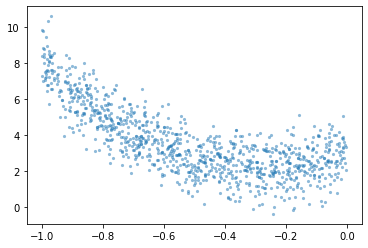
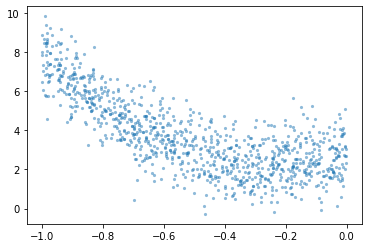
deploy: 4ab12542be3244c10e368a6d78453bffe076160b

diff --git a/searchindex.js b/searchindex.js
@@ -1,1 +1,1 @@
-Search.setIndex({docnames:["index","notebooks/01_linear_systems","notebooks/02_LU_decomposition","notebooks/03_polynomial_interpolation","notebooks/04_spline_interpolation","notebooks/05_finite_difference_method","notebooks/06_least_squares_regression","notebooks/07_pca","notebooks/08_deblurring_images","notebooks/09_computed_tomography","notebooks/10_computing_eigenvalues","notebooks/11_pagerank","notebooks/12_fft","notebooks/13_convolution","notebooks/IntroFirstLecture","notebooks/IntroductionToPythonPart1","notebooks/IntroductionToPythonPart2","notebooks/Untitled"],envversion:{"sphinx.domains.c":2,"sphinx.domains.changeset":1,"sphinx.domains.citation":1,"sphinx.domains.cpp":3,"sphinx.domains.index":1,"sphinx.domains.javascript":2,"sphinx.domains.math":2,"sphinx.domains.python":2,"sphinx.domains.rst":2,"sphinx.domains.std":1,"sphinx.ext.intersphinx":1,sphinx:56},filenames:["index.md","notebooks/01_linear_systems.ipynb","notebooks/02_LU_decomposition.ipynb","notebooks/03_polynomial_interpolation.ipynb","notebooks/04_spline_interpolation.ipynb","notebooks/05_finite_difference_method.ipynb","notebooks/06_least_squares_regression.ipynb","notebooks/07_pca.ipynb","notebooks/08_deblurring_images.ipynb","notebooks/09_computed_tomography.ipynb","notebooks/10_computing_eigenvalues.ipynb","notebooks/11_pagerank.ipynb","notebooks/12_fft.ipynb","notebooks/13_convolution.ipynb","notebooks/IntroFirstLecture.ipynb","notebooks/IntroductionToPythonPart1.ipynb","notebooks/IntroductionToPythonPart2.ipynb","notebooks/Untitled.ipynb"],objects:{},objnames:{},objtypes:{},terms:{"00000000e":10,"005":[3,4],"00905901":6,"00961239":6,"01785714":14,"02015061437077481":11,"02015078":11,"021080858708892317":11,"02108105":11,"02556357764491325":11,"02556366":11,"02761565":11,"027615823407476453":11,"0338245995526274":11,"03382476":11,"03416233":11,"03416243773609633":11,"03703704":14,"0375":11,"037500000000000006":11,"037757417817839686":11,"03775753":11,"04084467":11,"04084476582254939":11,"041989783168060076":11,"04199003":11,"04459712":11,"04459746509471776":11,"0504685":11,"05046859372406715":11,"05138671":11,"05138684431971574":11,"05276264293480124":11,"05276289":11,"05283406":11,"05283470425176745":11,"05640495":11,"056405091437725506":11,"06282969":6,"06710710820958404":11,"06710754":11,"06822613313847745":11,"06822674":11,"07106781e":10,"07493737":11,"07493773248177427":11,"08454061267050449":11,"08454105":11,"100":[3,5,10,11,12,14],"1000":[6,14],"1056":7,"10mm":[1,2,5],"1100":12,"11111111":14,"11374262":11,"11374319350763513":11,"115575244":3,"11764706e":10,"11820759":6,"120":9,"13793103e":10,"14213562e":10,"14285714":14,"150":10,"1525":16,"16071429":14,"16666667":1,"1797":7,"180":16,"18775788":6,"1a19a4a092db":15,"200":[3,4,7,8,9,14],"220446049250313e":1,"23313981e":10,"239":15,"23935093":6,"240":15,"241":15,"242":15,"243":15,"24650102e":10,"24712881730381647":11,"24720132":11,"24782":8,"256":[8,14],"29486809":6,"2q_k":5,"2x_1":[14,15],"32083333":11,"3236":16,"331042562946":8,"33333333":[1,2,11,14],"33333333e":10,"36886114e":10,"375":14,"38617379e":10,"392":10,"39797215e":10,"3x_2":[14,15],"40000000e":10,"41176471e":10,"41379310e":10,"41421356":10,"41421356e":10,"432x288":8,"43829925e":10,"44100":12,"45293347e":10,"4625":11,"46809736":11,"46824236539236713":11,"47532717":7,"49999998":10,"4x_3":[14,15],"500":[6,12],"50000002":10,"512":14,"52409613e":10,"530258040767459":4,"5x_2":[14,15],"61563238594044":10,"6156324237696":10,"64217655":3,"66666667":[1,10],"6724":9,"68965517":10,"70710675":10,"70710678":10,"70710681":10,"72413793":10,"750":12,"76358907e":10,"77302319e":10,"7762752":9,"78720":9,"7x_3":[14,15],"809":16,"8284271247461903":15,"87980912":7,"88235294e":10,"8875":11,"8x_3":[14,15],"90926744e":10,"9840":9,"9f18eecd8a15":15,"default":12,"final":16,"function":[1,2,4,6,7,8,10,11,15],"import":[1,2,3,4,5,6,7,8,9,10,11,12,14,15,16],"new":15,"return":[2,15,16],"true":[2,3,4,5,7,11,12,14],"try":[3,15],And:[9,16],Axes:8,But:[3,14,15],For:[5,15,16],That:[2,3,7,14,15],The:[0,1,2,3,4,5,6,7,9,10,14,15,16],Then:[10,14],There:[6,7,15,16],These:9,Use:[6,8],With:2,a_0:10,a_2:5,a_c:[8,14],a_k:[5,9,10],a_k_plu:9,a_n:5,a_r:[8,14],about:[1,14,15,16],abov:16,abs:[10,12],absolut:[2,10],ac_k_plu:[8,14],access:0,account:0,accur:15,actual:[9,15],acut:16,added:[0,4],addit:[0,14,15],adjac:11,adjacency_matrix:11,after:9,again:[6,15],algebra:[1,16],algorithm:[7,10],align:[2,3],all:[0,4,10,14,15],almost:6,alpha:[5,6,7,11,14],alreadi:15,also:10,alwai:2,amp:1,analys:15,angl:[7,9,12],ani:2,anoth:15,answer:15,append:3,approx:5,approxim:[1,5,10,15],ar_k_plu:[8,14],arang:[8,12,14],arbitrari:6,around:[3,15],arrai:[1,2,3,4,5,6,7,10,11,14,15],assign:0,assum:[0,14],astyp:[8,14],attent:16,aug:15,averag:7,avoid:[8,9],axi:[5,7,11],b_1:5,b_2:5,b_e:9,b_k:5,b_n:5,base:6,basi:7,bc_type:4,becaus:3,been:7,befor:[0,6],begin:[1,2,3,5,6,14,15,16],belong:15,best:[6,15],beta:5,between:14,binari:[7,8],bit:16,block:[8,10],blur:14,bmatrix:[1,2,3,5,6,14,15,16],boldsymbol:[1,3],bone:9,bore:15,both:8,boundari:5,browser:[0,12],bug:15,build:6,c_0:[3,6],c_1:[3,5,6],c_1t:6,c_1t_1:3,c_1t_2:3,c_1t_d:3,c_1x:6,c_2:[3,5,6],c_2t:6,c_2x:6,c_d:[3,6],c_dt:6,c_k:[3,5],calcul:[6,15,16],call:[2,3,6,15,16],can:[0,6,9,10,14,16],canva:0,capabl:15,captur:7,cccccccc:[1,2],cd_d:6,cdot:[1,2,3,5,6],cell:16,chang:[3,4],check:[0,2,8],choic:6,choleski:2,choos:[5,10],circuilt:1,clear:15,click:0,clim:7,cmap:[2,7,8,9,11,14],coefficeint:6,coeffici:[3,4,6],col:[15,16],col_del:15,col_insert:15,collect:9,colorbar:[2,7,8],column:[2,6,7,8,15,16],column_stack:[6,7,14],columnspac:15,combin:8,come:15,command:15,common:[6,15],compar:[2,4,5,9,10,11,16],comput:[0,1,2,4,6,7,8,14,15,16],comut:2,concaten:5,cond:[3,4,8],condit:[3,5,8],confus:16,consid:[3,4,5],consist:1,constant:1,constraint:14,construct:[4,6,14],contain:9,continu:4,converg:10,copi:12,correct:[6,15],correspond:[3,9,10],cos:[5,7,12],cours:[0,15],creat:[1,3,8,11,16],cs1:4,cs2:4,cs3:4,csc:9,csc_matrix:9,cube:16,cubic:3,cubicsplin:4,current:1,cwl:0,data:[3,4,8,9,16],datapoint:14,dataset:9,dc_k_plu:[8,14],ddot:[1,2,3,5],decomposit:[7,10],decreas:8,defin:[4,5,10,15],definit:[2,11],degre:[3,6],demonstr:6,denot:5,deploi:0,describ:14,det:15,detail:0,devic:14,dft:12,diag:[1,2,5,8,9,14,15],diagon:[8,10],did:15,differ:[6,9,16],differenti:5,digraph:11,dimens:16,dimension:16,direct:[8,11],discret:5,discuss:16,displai:12,displaystyl:15,distribut:6,document:2,doe:[12,14,15],domain:5,domin:10,don:15,done:0,dot:[1,3,4,6,7],down:[14,15],dr_k_plu:[8,14],draw:11,due:[1,15],each:[3,4,5,7,9,10],earth:14,econom:6,edg:11,effici:7,eig:10,eigenvector:10,eignvalu:10,element:12,elementwis:16,elimin:2,ell_:2,email:14,end:[1,2,3,5,6,14,15,16],enough:15,entri:[2,16],epsilon:6,equal:[2,3,7],equat:[3,5,14,15,16],error:[1,6,9,14,15],eval:10,evec:10,even:16,everi:7,exact:[1,5],exactli:6,exampl:[9,15,16],exercis:[14,15],exist:3,express:6,eye:[1,2,15,16],f1931db3b9ae:15,factor:6,fals:[2,7],familiar:0,faulti:14,figsiz:[3,7,9,12],figur:[3,7,8,9,12],file:[0,9],find:[2,8,11,14,15,16],fine:14,finnish:9,fip:9,first:[0,2,6,7,15],flatten:7,float64:[8,14],follow:[0,9,14,15],form:[2,5,6,14,15],format:10,formula:5,found:0,frac:[5,7,10],from:[3,4,6,7,8,9,12,14,16],gaussian:[2,7],gave:15,gener:[5,6,14,15],get:[14,15,16],get_cmap:7,give:[3,14,15],given:[3,4,14],glimp:15,goal:6,good:10,googl:11,google_matrix:11,grai:[8,14],grid:[3,4,5,7,12,14],hand:2,handwritten:7,happen:3,has:[2,6,7,10,14,15,16],hat:[1,9],have:[0,6,9,10,14,15,16],help:[15,16],here:15,home:15,homework:14,horizont:8,how:[8,14,15,16],howev:[7,9,15,16],hspace:[1,2,5],hstack:[8,14],hub:0,huge:9,i_1:1,i_n:1,idea:6,ident:16,ifft:12,imag:7,implement:[7,10],imread:[8,14],imshow:[2,7,8,9,14],includ:7,increas:[3,10,14],inde:10,index:[1,9],indic:15,inform:[0,7,14],infti:10,input:15,insert:15,instal:0,instructor:0,interest:16,internet:15,interpol:7,interst:15,interv:[6,14],introduc:[3,5],introduct:0,inv:15,invers:[9,15],invert:[9,10],ipython:[12,15],irrat:15,iter:11,its:16,jet:7,jpg:[8,14],jupyt:0,just:6,keep:16,kitten:[8,14],know:[3,10,15],knowledg:0,l_1:2,l_2:2,lambda:10,lambda_1:10,lambda_n:10,languag:15,larg:[3,9],largest:9,last:16,later:15,learn:[1,7,15],least:[6,14],lectur:15,left:[1,2,5,6,8,14,15],len:3,length:[7,16],leq:2,less:2,let:[2,3,4,5,6,7,8,9,10,14,15,16],lib:15,librari:[15,16],like:14,linalg:[2,3,4,5,6,7,8,9,10,11,12,14,16],line:6,linear:[4,5,14,15,16],linearli:8,linewidth:[6,14],link:0,linspac:[3,4,5,6,14],list:16,llet:5,load_digit:7,loadmat:[8,9,14],locat:7,look:[6,9,14],loop:1,lot:[14,15],lower:2,lu_factor:10,lu_solv:10,machin:[7,15],magnitud:12,mai:16,mainli:15,make:15,mani:15,markers:[3,4,14],mat:9,math:15,mathbb:7,mathbf:[2,5,6,7,9,10,14],mathemat:[0,1],matlab:16,matplotlib:[1,2,3,4,5,6,7,8,9,10,11,12,14,15],matric:[6,9,15,16],matrix:[1,2,3,4,6,7,8,10,11,14,15],matrix_pow:16,max:10,mean:[6,7,10],measur:14,memori:9,method:[6,10,11,16],minim:[6,14],mode:6,model:1,modul:15,modulenotfounderror:15,more:15,most:[6,7,14,15],mpow:16,multipl:[8,10,15],multiplc:16,must:[15,16],n_link:11,n_page:11,nak:10,name:15,nameerror:15,nbyte:9,ndarrai:[1,9],ndim:16,need:[0,8,9,15,16],networkx:11,next:15,nice:3,niter:10,nmax:3,node_color:11,nois:[3,4,6,9,14],none:5,norm:[1,10],normal:[7,10],normliz:7,notat:[5,6],note:[0,11,15],notebook:[0,13],notic:16,now:[2,4,6,10,14,15,16],nullspac:15,number:[3,6,8,10,14,15,16],numer:[15,16],numpi:[1,2,3,4,5,6,7,8,9,10,11,12,14,15],nxk:10,object:16,off:15,onc:0,one:[15,16],ones:[1,2,5,6,8,11,14,15],onto:7,oper:15,order:[5,9,15],ordinari:5,origin:7,orthogon:7,orthonorm:7,other:[10,14,15],our:[1,4,11,15,16],out:15,output:16,p_1:[4,5],p_2:4,p_k:[4,5],p_n:[4,5],packag:[1,7,15],page:0,parabola:3,parallel:1,part:0,partial:2,particular:9,paus:10,pca:7,perform:[0,11,16],permut:2,phantom:2,phase:12,phi:12,piecewis:4,pivot:[2,15],pixel:7,plai:15,pleas:0,plot:[1,2,3,4,5,6,7,14],plt:[1,2,3,4,5,6,7,8,9,10,11,12,14],plu:2,point:[3,4,6,7],polyniomi:3,polynomi:4,pos:[11,15],posit:[1,2],post:0,power:11,precis:15,prepar:9,present:15,pretti:10,previou:14,print:[1,2,3,6,10,14,16],prior:0,problem:[9,15,16],produc:10,program:15,proj:9,project:[7,14],provid:9,pseudoinvers:[8,9,14],pyplot:[1,2,3,4,5,6,7,8,9,10,11,12,14],python3:15,python:7,q_1:6,q_1r_1:6,q_k:10,qtc:[8,14],qtr:[8,14],quad:[14,15],quantifi:6,question:15,quick:16,quiver:7,quotient:10,r_1:[5,6],r_2:5,r_k:[5,10],r_n:5,rai:9,rais:15,rand:[6,14],randint:[4,9,11],randn:[3,4,6,7,8,10,14],random:[3,4,6,7,8,9,12,14],rang:[3,7,9,10,11],rank:9,rate:12,rayleigh:10,rcparam:12,reach:14,real:[10,12],rearrang:5,recal:16,recent:[0,15],record:8,repeat:[5,10],repres:[1,6,8,9],requir:[0,16],resembl:14,reshap:[4,7,9,16],residu:1,result:[2,4,6,7,9,10,16],retriev:6,review:16,right:[0,1,2,5,6,7,8,14,15],rocket:0,round:1,row:[2,6,7,8,9,15,16],row_insert:15,rrcrr:5,rref:15,rrr:2,said:15,same:[6,8,10,15,16],sampl:[6,9],save:9,saw:16,scalar:15,scale:7,scale_unit:7,scatter:[6,7,14],scientist:14,scipi:[2,3,4,5,6,7,8,9,10,11,12,14,15,16],second:5,see:[6,10,14,15,16],seek:7,seen:15,select:[7,16],self:15,sensit:[3,4],set:[6,12,14],set_cmap:8,shape:[6,7,8,9,15,16],shapeerror:15,show:[1,2,3,4,5,6,7,8,9,12,14,15],side:[0,14],sigma:7,sign:0,similar:10,sin:[3,4,7],sinc:[10,15],singular:[7,9],site:15,size:[1,3,4,5,8,10,12,15,16],sklearn:7,sla:9,sleep:10,slice:16,small:[3,4,15],smallest:10,smooth:4,societi:9,softwar:0,solut:[1,2,3,5,6,14,15],solv:[2,3,4,5,6,8,9,14,15,16],solve_triangular:2,some:[1,3,6,8,14,15,16],space:3,spars:9,specifi:15,spring_layout:11,spy:9,sqrt:[10,15],squar:[1,6,8,9,14],sse:6,standard:6,start:[3,10],stem:12,step:10,still:[0,14],stochast:11,student:0,subinterv:4,subpackag:16,subplot:[9,12],substitut:5,substract:15,subtract:7,sum:[3,6,11,12],sum_:7,sum_i:6,support:12,suppos:[6,10],svd:[7,14],sym:15,symbol:[15,16],symmetr:[2,10,16],sympi:16,system:[2,3,4,5,6,14,15,16],syzygi:0,szgygi:0,t_0:[3,4,5,6],t_1:[3,6],t_2:3,t_d:3,t_f:5,t_i:6,t_k:[3,4,5],t_n:[3,4,6],tab:0,take:[0,15,16],talk:16,target:7,tell:15,term:0,than:2,thei:[10,16],them:15,therefor:[2,8,10],theta:7,thi:[0,2,3,6,10,14,15,16],thin:6,think:16,though:16,through:9,throughout:0,tick:7,tild:10,time:[6,7,8,10,16],titl:[3,12],toarrai:11,todai:16,toeplitz:14,tomograph:9,total:16,traceback:15,track:16,transpos:[11,15,16],triangular:[2,6,10],truncat:14,tupl:[15,16],tutori:15,two:[0,6,7,16],type:[1,9,16],ubc:0,unblur:14,uniqu:[3,6],unit:2,unknown:3,updat:0,upload:0,upper:[0,2,6,10],use:[0,4,6,7,9,14,16],use_line_collect:12,used:[0,11],useful:16,using:[0,1,2,3,6,8,14,16],usr:15,usual:10,valu:[2,3,4,7,8,9,10,15,16],vander:[3,14],vandermond:[3,6],variabl:16,varianc:7,vdot:[1,2,3,5,6],vector:[6,7,9,10,11,16],veri:[3,14],verifi:[2,4,16],vert:6,vertic:[8,11],visual:9,wai:[6,15],walnut:9,want:[4,6,15,16],weight:7,what:[3,6,15],when:[3,16],where:[1,2,5,6,8,9,15,16],which:[0,3,6,7,10,14,15,16],why:15,winter:[2,11],with_label:11,without:[0,2,10],word:14,work:[6,15],write:[14,15],wrong:15,x2d:7,x_0:14,x_1:[14,15],x_2:14,x_3:14,x_filter:12,xlabel:[1,3],y_0:[3,4,6,14],y_1:[3,5,6,14],y_2:[3,5,14],y_3:14,y_angl:12,y_d:3,y_filter:12,y_i:6,y_k:[3,4,5],y_n:[4,5,6],yes:[14,15],yield:[3,5],yike:3,ylabel:1,you:[0,14,15,16],your:[0,12,15],yourself:[0,15],zero:[5,8,11,14,15]},titles:["MATH 307 Applied Linear Algebra","Linear Systems of Equations","LU Decomposition","Polynomial Interpolation","Natural Cubic Spline Interpolation","Finite Difference Method","Fitting Models to Data","Principal Component Analysis","Deblurring Images","Computed Tomography","Computing Eigenvalues","PageRank","Discrete Fourier Transform","Test page","MATH 307  \u2013   What is it useful for","Introduction to Python - Part 1","Introduction to Python - Part 2: NumPy","&lt;no title&gt;"],titleterms:{"307":[0,14],"function":16,"true":9,algebra:0,alwai:15,analysi:7,appli:0,arithmet:16,arrai:16,attribut:16,audio:12,blur:8,can:15,compon:7,comput:[9,10,12],cubic:4,data:[6,7,14],dataset:7,deblur:[8,14],decomposit:[2,6],differ:5,digit:7,discret:12,eigenvalu:10,equat:[1,6],exampl:[1,2,3,4,5,6,11,12],exercis:16,fake:[6,7],fft:12,filter:12,finit:5,fit:6,fourier:12,from:15,graph:11,homework:15,imag:[8,14],interpol:[3,4,14],introduct:[15,16],invers:10,invert:8,iter:10,last:15,linalg:1,linear:[0,1,6],math:[0,14],mathbf:1,matric:[8,10],matrix:[9,16],measur:9,method:5,model:6,multipl:16,natur:4,network:1,nois:8,noisi:6,normal:6,numpi:16,oper:16,page:13,pagerank:11,part:[15,16],plai:12,point:14,polynomi:[3,6],power:[10,16],princip:7,project:9,python:[0,15,16],quadrat:6,random:[10,11],regress:6,resistor:1,scipi:1,signal:12,sinogram:9,sinusoid:12,small:11,solut:9,solv:1,spline:4,svd:[8,9],sympi:15,system:1,test:13,time:15,toeplitz:8,tomographi:9,trace:16,tranpos:16,transform:12,truncat:[8,9],use:15,useful:14,what:14}})
+Search.setIndex({docnames:["index","notebooks/01_linear_systems","notebooks/02_LU_decomposition","notebooks/03_polynomial_interpolation","notebooks/04_spline_interpolation","notebooks/05_finite_difference_method","notebooks/06_least_squares_regression","notebooks/07_pca","notebooks/08_deblurring_images","notebooks/09_computed_tomography","notebooks/10_computing_eigenvalues","notebooks/11_pagerank","notebooks/12_fft","notebooks/13_convolution","notebooks/IntroFirstLecture","notebooks/IntroductionToPythonPart1","notebooks/IntroductionToPythonPart2","notebooks/Untitled"],envversion:{"sphinx.domains.c":2,"sphinx.domains.changeset":1,"sphinx.domains.citation":1,"sphinx.domains.cpp":3,"sphinx.domains.index":1,"sphinx.domains.javascript":2,"sphinx.domains.math":2,"sphinx.domains.python":2,"sphinx.domains.rst":2,"sphinx.domains.std":1,"sphinx.ext.intersphinx":1,sphinx:56},filenames:["index.md","notebooks/01_linear_systems.ipynb","notebooks/02_LU_decomposition.ipynb","notebooks/03_polynomial_interpolation.ipynb","notebooks/04_spline_interpolation.ipynb","notebooks/05_finite_difference_method.ipynb","notebooks/06_least_squares_regression.ipynb","notebooks/07_pca.ipynb","notebooks/08_deblurring_images.ipynb","notebooks/09_computed_tomography.ipynb","notebooks/10_computing_eigenvalues.ipynb","notebooks/11_pagerank.ipynb","notebooks/12_fft.ipynb","notebooks/13_convolution.ipynb","notebooks/IntroFirstLecture.ipynb","notebooks/IntroductionToPythonPart1.ipynb","notebooks/IntroductionToPythonPart2.ipynb","notebooks/Untitled.ipynb"],objects:{},objnames:{},objtypes:{},terms:{"00000000e":10,"00329369":6,"005":[3,4],"00720063":6,"01785714":14,"02021818425434934":11,"0202183":11,"02327486":11,"02327509645597324":11,"02861550331129996":11,"02861563":11,"03349454870116665":11,"03349485":11,"03412058583580128":11,"03412082":11,"03703704":14,"0375":11,"037500000000000006":11,"0384066":11,"03840696368748356":11,"04140303":11,"04140358357909534":11,"043021624303052286":11,"04302196":11,"04403034748993058":11,"04403048":11,"04487838":11,"04487838794748688":11,"05134211":11,"051342695462198454":11,"05219075290011454":11,"05219113":11,"05267607":6,"05335694":11,"05335788791855488":11,"05428659823858345":11,"05428792":11,"06056544738828677":11,"06056724":11,"06211736":11,"0621183010020287":11,"06937521":11,"06937644068475511":11,"07038616535629663":11,"07038652":11,"07106781e":10,"07822011":11,"07822024727447974":11,"09669056":11,"09669063820906262":11,"100":[3,5,10,11,12,14],"1000":[6,14],"1056":7,"10598496":6,"10mm":[1,2,5],"1100":12,"11111111":14,"115575244":3,"11764706e":10,"120":9,"13793103e":10,"14213562e":10,"14285714":14,"150":10,"1525":16,"16071429":14,"16666667":1,"1797":7,"180":16,"1966395692889":10,"1a19a4a092db":15,"200":[3,4,7,8,9,14],"2026365759765":10,"220446049250313e":1,"23313981e":10,"239":15,"240":15,"241":15,"242":15,"243":15,"24650102e":10,"24712881730381647":11,"24720132":11,"24782":8,"256":[8,14],"2q_k":5,"2x_1":[14,15],"32083333":11,"3236":16,"331042560716":8,"33333333":[1,2,11,14],"33333333e":10,"35765464":6,"36886114e":10,"373":10,"375":14,"38617379e":10,"39797215e":10,"3x_2":[14,15],"40000000e":10,"41176471e":10,"41379310e":10,"41421356":10,"41421356e":10,"432x288":8,"43829925e":10,"44100":12,"45293347e":10,"4625":11,"46809736":11,"46824236539236713":11,"49999998":10,"4x_3":[14,15],"500":[6,12],"50000002":10,"50967514":7,"512":14,"52409613e":10,"530258040767446":4,"5x_2":[14,15],"6289977":3,"66666667":[1,10],"6724":9,"68965517":10,"70710675":10,"70710678":10,"70710681":10,"72413793":10,"74248653":6,"750":12,"76358907e":10,"77302319e":10,"7762752":9,"78720":9,"7x_3":[14,15],"809":16,"8284271247461903":15,"86036693":7,"88235294e":10,"8875":11,"8x_3":[14,15],"90926744e":10,"96056081":6,"9840":9,"9f18eecd8a15":15,"default":12,"final":16,"function":[1,2,4,6,7,8,10,11,15],"import":[1,2,3,4,5,6,7,8,9,10,11,12,14,15,16],"new":15,"return":[2,15,16],"true":[2,3,4,5,7,11,12,14],"try":[3,15],And:[9,16],Axes:8,But:[3,14,15],For:[5,15,16],That:[2,3,7,14,15],The:[0,1,2,3,4,5,6,7,9,10,14,15,16],Then:[10,14],There:[6,7,15,16],These:9,Use:[6,8],With:2,a_0:10,a_2:5,a_c:[8,14],a_k:[5,9,10],a_k_plu:9,a_n:5,a_r:[8,14],about:[1,14,15,16],abov:16,abs:[10,12],absolut:[2,10],ac_k_plu:[8,14],access:0,account:0,accur:15,actual:[9,15],acut:16,added:[0,4],addit:[0,14,15],adjac:11,adjacency_matrix:11,after:9,again:[6,15],algebra:[1,16],algorithm:[7,10],align:[2,3],all:[0,4,10,14,15],almost:6,alpha:[5,6,7,11,14],alreadi:15,also:10,alwai:2,amp:1,analys:15,angl:[7,9,12],ani:2,anoth:15,answer:15,append:3,approx:5,approxim:[1,5,10,15],ar_k_plu:[8,14],arang:[8,12,14],arbitrari:6,around:[3,15],arrai:[1,2,3,4,5,6,7,10,11,14,15],assign:0,assum:[0,14],astyp:[8,14],attent:16,aug:15,averag:7,avoid:[8,9],axi:[5,7,11],b_1:5,b_2:5,b_e:9,b_k:5,b_n:5,base:6,basi:7,bc_type:4,becaus:3,been:7,befor:[0,6],begin:[1,2,3,5,6,14,15,16],belong:15,best:[6,15],beta:5,between:14,binari:[7,8],bit:16,block:[8,10],blur:14,bmatrix:[1,2,3,5,6,14,15,16],boldsymbol:[1,3],bone:9,bore:15,both:8,boundari:5,browser:[0,12],bug:15,build:6,c_0:[3,6],c_1:[3,5,6],c_1t:6,c_1t_1:3,c_1t_2:3,c_1t_d:3,c_1x:6,c_2:[3,5,6],c_2t:6,c_2x:6,c_d:[3,6],c_dt:6,c_k:[3,5],calcul:[6,15,16],call:[2,3,6,15,16],can:[0,6,9,10,14,16],canva:0,capabl:15,captur:7,cccccccc:[1,2],cd_d:6,cdot:[1,2,3,5,6],cell:16,chang:[3,4],check:[0,2,8],choic:6,choleski:2,choos:[5,10],circuilt:1,clear:15,click:0,clim:7,cmap:[2,7,8,9,11,14],coefficeint:6,coeffici:[3,4,6],col:[15,16],col_del:15,col_insert:15,collect:9,colorbar:[2,7,8],column:[2,6,7,8,15,16],column_stack:[6,7,14],columnspac:15,combin:8,come:15,command:15,common:[6,15],compar:[2,4,5,9,10,11,16],comput:[0,1,2,4,6,7,8,14,15,16],comut:2,concaten:5,cond:[3,4,8],condit:[3,5,8],confus:16,consid:[3,4,5],consist:1,constant:1,constraint:14,construct:[4,6,14],contain:9,continu:4,converg:10,copi:12,correct:[6,15],correspond:[3,9,10],cos:[5,7,12],cours:[0,15],creat:[1,3,8,11,16],cs1:4,cs2:4,cs3:4,csc:9,csc_matrix:9,cube:16,cubic:3,cubicsplin:4,current:1,cwl:0,data:[3,4,8,9,16],datapoint:14,dataset:9,dc_k_plu:[8,14],ddot:[1,2,3,5],decomposit:[7,10],decreas:8,defin:[4,5,10,15],definit:[2,11],degre:[3,6],demonstr:6,denot:5,deploi:0,describ:14,det:15,detail:0,devic:14,dft:12,diag:[1,2,5,8,9,14,15],diagon:[8,10],did:15,differ:[6,9,16],differenti:5,digraph:11,dimens:16,dimension:16,direct:[8,11],discret:5,discuss:16,displai:12,displaystyl:15,distribut:6,document:2,doe:[12,14,15],domain:5,domin:10,don:15,done:0,dot:[1,3,4,6,7],down:[14,15],dr_k_plu:[8,14],draw:11,due:[1,15],each:[3,4,5,7,9,10],earth:14,econom:6,edg:11,effici:7,eig:10,eigenvector:10,eignvalu:10,element:12,elementwis:16,elimin:2,ell_:2,email:14,end:[1,2,3,5,6,14,15,16],enough:15,entri:[2,16],epsilon:6,equal:[2,3,7],equat:[3,5,14,15,16],error:[1,6,9,14,15],eval:10,evec:10,even:16,everi:7,exact:[1,5],exactli:6,exampl:[9,15,16],exercis:[14,15],exist:3,express:6,eye:[1,2,15,16],f1931db3b9ae:15,factor:6,fals:[2,7],familiar:0,faulti:14,figsiz:[3,7,9,12],figur:[3,7,8,9,12],file:[0,9],find:[2,8,11,14,15,16],fine:14,finnish:9,fip:9,first:[0,2,6,7,15],flatten:7,float64:[8,14],follow:[0,9,14,15],form:[2,5,6,14,15],format:10,formula:5,found:0,frac:[5,7,10],from:[3,4,6,7,8,9,12,14,16],gaussian:[2,7],gave:15,gener:[5,6,14,15],get:[14,15,16],get_cmap:7,give:[3,14,15],given:[3,4,14],glimp:15,goal:6,good:10,googl:11,google_matrix:11,grai:[8,14],grid:[3,4,5,7,12,14],hand:2,handwritten:7,happen:3,has:[2,6,7,10,14,15,16],hat:[1,9],have:[0,6,9,10,14,15,16],help:[15,16],here:15,home:15,homework:14,horizont:8,how:[8,14,15,16],howev:[7,9,15,16],hspace:[1,2,5],hstack:[8,14],hub:0,huge:9,i_1:1,i_n:1,idea:6,ident:16,ifft:12,imag:7,implement:[7,10],imread:[8,14],imshow:[2,7,8,9,14],includ:7,increas:[3,10,14],inde:10,index:[1,9],indic:15,inform:[0,7,14],infti:10,input:15,insert:15,instal:0,instructor:0,interest:16,internet:15,interpol:7,interst:15,interv:[6,14],introduc:[3,5],introduct:0,inv:15,invers:[9,15],invert:[9,10],ipython:[12,15],irrat:15,iter:11,its:16,jet:7,jpg:[8,14],jupyt:0,just:6,keep:16,kitten:[8,14],know:[3,10,15],knowledg:0,l_1:2,l_2:2,lambda:10,lambda_1:10,lambda_n:10,languag:15,larg:[3,9],largest:9,last:16,later:15,learn:[1,7,15],least:[6,14],lectur:15,left:[1,2,5,6,8,14,15],len:3,length:[7,16],leq:2,less:2,let:[2,3,4,5,6,7,8,9,10,14,15,16],lib:15,librari:[15,16],like:14,linalg:[2,3,4,5,6,7,8,9,10,11,12,14,16],line:6,linear:[4,5,14,15,16],linearli:8,linewidth:[6,14],link:0,linspac:[3,4,5,6,14],list:16,llet:5,load_digit:7,loadmat:[8,9,14],locat:7,look:[6,9,14],loop:1,lot:[14,15],lower:2,lu_factor:10,lu_solv:10,machin:[7,15],magnitud:12,mai:16,mainli:15,make:15,mani:15,markers:[3,4,14],mat:9,math:15,mathbb:7,mathbf:[2,5,6,7,9,10,14],mathemat:[0,1],matlab:16,matplotlib:[1,2,3,4,5,6,7,8,9,10,11,12,14,15],matric:[6,9,15,16],matrix:[1,2,3,4,6,7,8,10,11,14,15],matrix_pow:16,max:10,mean:[6,7,10],measur:14,memori:9,method:[6,10,11,16],minim:[6,14],mode:6,model:1,modul:15,modulenotfounderror:15,more:15,most:[6,7,14,15],mpow:16,multipl:[8,10,15],multiplc:16,must:[15,16],n_link:11,n_page:11,nak:10,name:15,nameerror:15,nbyte:9,ndarrai:[1,9],ndim:16,need:[0,8,9,15,16],networkx:11,next:15,nice:3,niter:10,nmax:3,node_color:11,nois:[3,4,6,9,14],none:5,norm:[1,10],normal:[7,10],normliz:7,notat:[5,6],note:[0,11,15],notebook:[0,13],notic:16,now:[2,4,6,10,14,15,16],nullspac:15,number:[3,6,8,10,14,15,16],numer:[15,16],numpi:[1,2,3,4,5,6,7,8,9,10,11,12,14,15],nxk:10,object:16,off:15,onc:0,one:[15,16],ones:[1,2,5,6,8,11,14,15],onto:7,oper:15,order:[5,9,15],ordinari:5,origin:7,orthogon:7,orthonorm:7,other:[10,14,15],our:[1,4,11,15,16],out:15,output:16,p_1:[4,5],p_2:4,p_k:[4,5],p_n:[4,5],packag:[1,7,15],page:0,parabola:3,parallel:1,part:0,partial:2,particular:9,paus:10,pca:7,perform:[0,11,16],permut:2,phantom:2,phase:12,phi:12,piecewis:4,pivot:[2,15],pixel:7,plai:15,pleas:0,plot:[1,2,3,4,5,6,7,14],plt:[1,2,3,4,5,6,7,8,9,10,11,12,14],plu:2,point:[3,4,6,7],polyniomi:3,polynomi:4,pos:[11,15],posit:[1,2],post:0,power:11,precis:15,prepar:9,present:15,pretti:10,previou:14,print:[1,2,3,6,10,14,16],prior:0,problem:[9,15,16],produc:10,program:15,proj:9,project:[7,14],provid:9,pseudoinvers:[8,9,14],pyplot:[1,2,3,4,5,6,7,8,9,10,11,12,14],python3:15,python:7,q_1:6,q_1r_1:6,q_k:10,qtc:[8,14],qtr:[8,14],quad:[14,15],quantifi:6,question:15,quick:16,quiver:7,quotient:10,r_1:[5,6],r_2:5,r_k:[5,10],r_n:5,rai:9,rais:15,rand:[6,14],randint:[4,9,11],randn:[3,4,6,7,8,10,14],random:[3,4,6,7,8,9,12,14],rang:[3,7,9,10,11],rank:9,rate:12,rayleigh:10,rcparam:12,reach:14,real:[10,12],rearrang:5,recal:16,recent:[0,15],record:8,repeat:[5,10],repres:[1,6,8,9],requir:[0,16],resembl:14,reshap:[4,7,9,16],residu:1,result:[2,4,6,7,9,10,16],retriev:6,review:16,right:[0,1,2,5,6,7,8,14,15],rocket:0,round:1,row:[2,6,7,8,9,15,16],row_insert:15,rrcrr:5,rref:15,rrr:2,said:15,same:[6,8,10,15,16],sampl:[6,9],save:9,saw:16,scalar:15,scale:7,scale_unit:7,scatter:[6,7,14],scientist:14,scipi:[2,3,4,5,6,7,8,9,10,11,12,14,15,16],second:5,see:[6,10,14,15,16],seek:7,seen:15,select:[7,16],self:15,sensit:[3,4],set:[6,12,14],set_cmap:8,shape:[6,7,8,9,15,16],shapeerror:15,show:[1,2,3,4,5,6,7,8,9,12,14,15],side:[0,14],sigma:7,sign:0,similar:10,sin:[3,4,7],sinc:[10,15],singular:[7,9],site:15,size:[1,3,4,5,8,10,12,15,16],sklearn:7,sla:9,sleep:10,slice:16,small:[3,4,15],smallest:10,smooth:4,societi:9,softwar:0,solut:[1,2,3,5,6,14,15],solv:[2,3,4,5,6,8,9,14,15,16],solve_triangular:2,some:[1,3,6,8,14,15,16],space:3,spars:9,specifi:15,spring_layout:11,spy:9,sqrt:[10,15],squar:[1,6,8,9,14],sse:6,standard:6,start:[3,10],stem:12,step:10,still:[0,14],stochast:11,student:0,subinterv:4,subpackag:16,subplot:[9,12],substitut:5,substract:15,subtract:7,sum:[3,6,11,12],sum_:7,sum_i:6,support:12,suppos:[6,10],svd:[7,14],sym:15,symbol:[15,16],symmetr:[2,10,16],sympi:16,system:[2,3,4,5,6,14,15,16],syzygi:0,szgygi:0,t_0:[3,4,5,6],t_1:[3,6],t_2:3,t_d:3,t_f:5,t_i:6,t_k:[3,4,5],t_n:[3,4,6],tab:0,take:[0,15,16],talk:16,target:7,tell:15,term:0,than:2,thei:[10,16],them:15,therefor:[2,8,10],theta:7,thi:[0,2,3,6,10,14,15,16],thin:6,think:16,though:16,through:9,throughout:0,tick:7,tild:10,time:[6,7,8,10,16],titl:[3,12],toarrai:11,todai:16,toeplitz:14,tomograph:9,total:16,traceback:15,track:16,transpos:[11,15,16],triangular:[2,6,10],truncat:14,tupl:[15,16],tutori:15,two:[0,6,7,16],type:[1,9,16],ubc:0,unblur:14,uniqu:[3,6],unit:2,unknown:3,updat:0,upload:0,upper:[0,2,6,10],use:[0,4,6,7,9,14,16],use_line_collect:12,used:[0,11],useful:16,using:[0,1,2,3,6,8,14,16],usr:15,usual:10,valu:[2,3,4,7,8,9,10,15,16],vander:[3,14],vandermond:[3,6],variabl:16,varianc:7,vdot:[1,2,3,5,6],vector:[6,7,9,10,11,16],veri:[3,14],verifi:[2,4,16],vert:6,vertic:[8,11],visual:9,wai:[6,15],walnut:9,want:[4,6,15,16],weight:7,what:[3,6,15],when:[3,16],where:[1,2,5,6,8,9,15,16],which:[0,3,6,7,10,14,15,16],why:15,winter:[2,11],with_label:11,without:[0,2,10],word:14,work:[6,15],write:[14,15],wrong:15,x2d:7,x_0:14,x_1:[14,15],x_2:14,x_3:14,x_filter:12,xlabel:[1,3],y_0:[3,4,6,14],y_1:[3,5,6,14],y_2:[3,5,14],y_3:14,y_angl:12,y_d:3,y_filter:12,y_i:6,y_k:[3,4,5],y_n:[4,5,6],yes:[14,15],yield:[3,5],yike:3,ylabel:1,you:[0,14,15,16],your:[0,12,15],yourself:[0,15],zero:[5,8,11,14,15]},titles:["MATH 307 Applied Linear Algebra","Linear Systems of Equations","LU Decomposition","Polynomial Interpolation","Natural Cubic Spline Interpolation","Finite Difference Method","Fitting Models to Data","Principal Component Analysis","Deblurring Images","Computed Tomography","Computing Eigenvalues","PageRank","Discrete Fourier Transform","Test page","MATH 307  \u2013   What is it useful for","Introduction to Python - Part 1","Introduction to Python - Part 2: NumPy","&lt;no title&gt;"],titleterms:{"307":[0,14],"function":16,"true":9,algebra:0,alwai:15,analysi:7,appli:0,arithmet:16,arrai:16,attribut:16,audio:12,blur:8,can:15,compon:7,comput:[9,10,12],cubic:4,data:[6,7,14],dataset:7,deblur:[8,14],decomposit:[2,6],differ:5,digit:7,discret:12,eigenvalu:10,equat:[1,6],exampl:[1,2,3,4,5,6,11,12],exercis:16,fake:[6,7],fft:12,filter:12,finit:5,fit:6,fourier:12,from:15,graph:11,homework:15,imag:[8,14],interpol:[3,4,14],introduct:[15,16],invers:10,invert:8,iter:10,last:15,linalg:1,linear:[0,1,6],math:[0,14],mathbf:1,matric:[8,10],matrix:[9,16],measur:9,method:5,model:6,multipl:16,natur:4,network:1,nois:8,noisi:6,normal:6,numpi:16,oper:16,page:13,pagerank:11,part:[15,16],plai:12,point:14,polynomi:[3,6],power:[10,16],princip:7,project:9,python:[0,15,16],quadrat:6,random:[10,11],regress:6,resistor:1,scipi:1,signal:12,sinogram:9,sinusoid:12,small:11,solut:9,solv:1,spline:4,svd:[8,9],sympi:15,system:1,test:13,time:15,toeplitz:8,tomographi:9,trace:16,tranpos:16,transform:12,truncat:[8,9],use:15,useful:14,what:14}})

diff --git a/notebooks/11_pagerank.html b/notebooks/11_pagerank.html
@@ -522,10 +522,10 @@
 </div>
 </div>
 <div class="cell_output docutils container">
-<div class="output text_plain highlight-myst-ansi notranslate"><div class="highlight"><pre><span></span>array([0.06822674, 0.11374262, 0.0504685 , 0.03775753, 0.03382476,
-       0.03416233, 0.02556366, 0.02108105, 0.05276289, 0.05138671,
-       0.04199003, 0.08454105, 0.04084467, 0.02015078, 0.05640495,
-       0.05283406, 0.04459712, 0.07493737, 0.06710754, 0.02761565])
+<div class="output text_plain highlight-myst-ansi notranslate"><div class="highlight"><pre><span></span>array([0.09669056, 0.02861563, 0.04403048, 0.04140303, 0.04302196,
+       0.05134211, 0.05428792, 0.04487838, 0.03412082, 0.06937521,
+       0.06211736, 0.05335694, 0.07822011, 0.05219113, 0.0384066 ,
+       0.06056724, 0.03349485, 0.07038652, 0.0202183 , 0.02327486])
 </pre></div>
 </div>
 </div>
@@ -537,26 +537,26 @@
 </div>
 </div>
 <div class="cell_output docutils container">
-<div class="output text_plain highlight-myst-ansi notranslate"><div class="highlight"><pre><span></span>{17: 0.06822613313847745,
- 3: 0.11374319350763513,
- 12: 0.05046859372406715,
- 16: 0.037757417817839686,
- 0: 0.0338245995526274,
- 10: 0.03416243773609633,
- 5: 0.02556357764491325,
- 11: 0.021080858708892317,
- 19: 0.05276264293480124,
- 7: 0.05138684431971574,
- 2: 0.041989783168060076,
- 14: 0.08454061267050449,
- 4: 0.04084476582254939,
- 9: 0.02015061437077481,
- 8: 0.056405091437725506,
- 15: 0.05283470425176745,
- 1: 0.04459746509471776,
- 18: 0.07493773248177427,
- 13: 0.06710710820958404,
- 6: 0.027615823407476453}
+<div class="output text_plain highlight-myst-ansi notranslate"><div class="highlight"><pre><span></span>{19: 0.09669063820906262,
+ 4: 0.02861550331129996,
+ 18: 0.04403034748993058,
+ 6: 0.04140358357909534,
+ 0: 0.043021624303052286,
+ 16: 0.051342695462198454,
+ 7: 0.05428659823858345,
+ 11: 0.04487838794748688,
+ 12: 0.03412058583580128,
+ 10: 0.06937644068475511,
+ 14: 0.0621183010020287,
+ 5: 0.05335788791855488,
+ 15: 0.07822024727447974,
+ 17: 0.05219075290011454,
+ 9: 0.03840696368748356,
+ 13: 0.06056544738828677,
+ 1: 0.03349454870116665,
+ 8: 0.07038616535629663,
+ 2: 0.02021818425434934,
+ 3: 0.02327509645597324}
 </pre></div>
 </div>
 </div>

diff --git a/notebooks/06_least_squares_regression.html b/notebooks/06_least_squares_regression.html
@@ -467,11 +467,11 @@ y = c_0 + c_1 t + \epsilon
 </div>
 </div>
 <div class="cell_output docutils container">
-<div class="output text_plain highlight-myst-ansi notranslate"><div class="highlight"><pre><span></span>array([[1.        , 0.29486809],
-       [1.        , 0.11820759],
-       [1.        , 0.18775788],
-       [1.        , 0.06282969],
-       [1.        , 0.23935093]])
+<div class="output text_plain highlight-myst-ansi notranslate"><div class="highlight"><pre><span></span>array([[1.        , 0.10598496],
+       [1.        , 0.35765464],
+       [1.        , 0.00329369],
+       [1.        , 0.74248653],
+       [1.        , 0.05267607]])
 </pre></div>
 </div>
 </div>
@@ -485,7 +485,7 @@ y = c_0 + c_1 t + \epsilon
 </div>
 </div>
 <div class="cell_output docutils container">
-<div class="output stream highlight-myst-ansi notranslate"><div class="highlight"><pre><span></span>[ 7.00905901 -4.00961239]
+<div class="output stream highlight-myst-ansi notranslate"><div class="highlight"><pre><span></span>[ 7.00720063 -3.96056081]
 </pre></div>
 </div>
 </div>

diff --git a/index.html b/index.html
@@ -307,7 +307,6 @@
 </ul>
 <p>Before the first assignment, please familiarize yourself with Python using the following two notebooks.</p>
 <p>Recently added:</p>
-<p><a class="reference internal" href="notebooks/IntroFirstLecture.html"><span class="doc std std-doc">Introduction to Python - part 0</span></a></p>
 <p><a class="reference internal" href="notebooks/IntroductionToPythonPart1.html"><span class="doc std std-doc">Introduction to Python - part 1</span></a></p>
 <p><a class="reference internal" href="notebooks/IntroductionToPythonPart2.html"><span class="doc std std-doc">Introduction to Python - part 2</span></a></p>
 <div class="toctree-wrapper compound">

diff --git a/notebooks/10_computing_eigenvalues.html b/notebooks/10_computing_eigenvalues.html
@@ -557,8 +557,8 @@ A \tilde{\mathbf{x}}_{k+1} = \mathbf{x}_k \\
 </div>
 </div>
 <div class="cell_output docutils container">
-<div class="output stream highlight-myst-ansi notranslate"><div class="highlight"><pre><span></span>Power method:  392.61563238594044
-SciPy:  392.6156324237696
+<div class="output stream highlight-myst-ansi notranslate"><div class="highlight"><pre><span></span>Power method:  373.1966395692889
+SciPy:  373.2026365759765
 </pre></div>
 </div>
 </div>

diff --git a/notebooks/07_pca.html b/notebooks/07_pca.html
@@ -377,8 +377,8 @@
 </div>
 </div>
 <div class="cell_output docutils container">
-<div class="output text_plain highlight-myst-ansi notranslate"><div class="highlight"><pre><span></span>array([[ 0.87980912,  0.47532717],
-       [-0.47532717,  0.87980912]])
+<div class="output text_plain highlight-myst-ansi notranslate"><div class="highlight"><pre><span></span>array([[ 0.86036693,  0.50967514],
+       [ 0.50967514, -0.86036693]])
 </pre></div>
 </div>
 </div>

diff --git a/notebooks/03_polynomial_interpolation.html b/notebooks/03_polynomial_interpolation.html
@@ -484,7 +484,7 @@ c_0 + c_1t_d + \cdots + c_d t_d^d &amp;= y_d
 </div>
 </div>
 <div class="cell_output docutils container">
-<div class="output text_plain highlight-myst-ansi notranslate"><div class="highlight"><pre><span></span>115575244.64217655
+<div class="output text_plain highlight-myst-ansi notranslate"><div class="highlight"><pre><span></span>115575244.6289977
 </pre></div>
 </div>
 </div>

diff --git a/notebooks/04_spline_interpolation.html b/notebooks/04_spline_interpolation.html
@@ -433,7 +433,7 @@
 </div>
 </div>
 <div class="cell_output docutils container">
-<div class="output text_plain highlight-myst-ansi notranslate"><div class="highlight"><pre><span></span>14.530258040767459
+<div class="output text_plain highlight-myst-ansi notranslate"><div class="highlight"><pre><span></span>14.530258040767446
 </pre></div>
 </div>
 </div>

diff --git a/notebooks/08_deblurring_images.html b/notebooks/08_deblurring_images.html
@@ -406,7 +406,7 @@
 </div>
 </div>
 <div class="cell_output docutils container">
-<div class="output text_plain highlight-myst-ansi notranslate"><div class="highlight"><pre><span></span>24782.331042562946
+<div class="output text_plain highlight-myst-ansi notranslate"><div class="highlight"><pre><span></span>24782.331042560716
 </pre></div>
 </div>
 </div>

diff --git a/notebooks/01_linear_systems.html b/notebooks/01_linear_systems.html
@@ -567,9 +567,6 @@ A =
  [ 5.]]
 </pre></div>
 </div>
-<div class="output stream highlight-myst-ansi notranslate"><div class="highlight"><pre><span></span>
-</pre></div>
-</div>
 </div>
 </div>
 </div>

diff --git a/_sources/index.md b/_sources/index.md
@@ -13,8 +13,6 @@ Before the first assignment, please familiarize yourself with Python using the f
 
 Recently added:
 
-[Introduction to Python - part 0](notebooks/IntroFirstLecture.ipynb)
-
 [Introduction to Python - part 1](notebooks/IntroductionToPythonPart1.ipynb)
 
 [Introduction to Python - part 2](notebooks/IntroductionToPythonPart2.ipynb)
